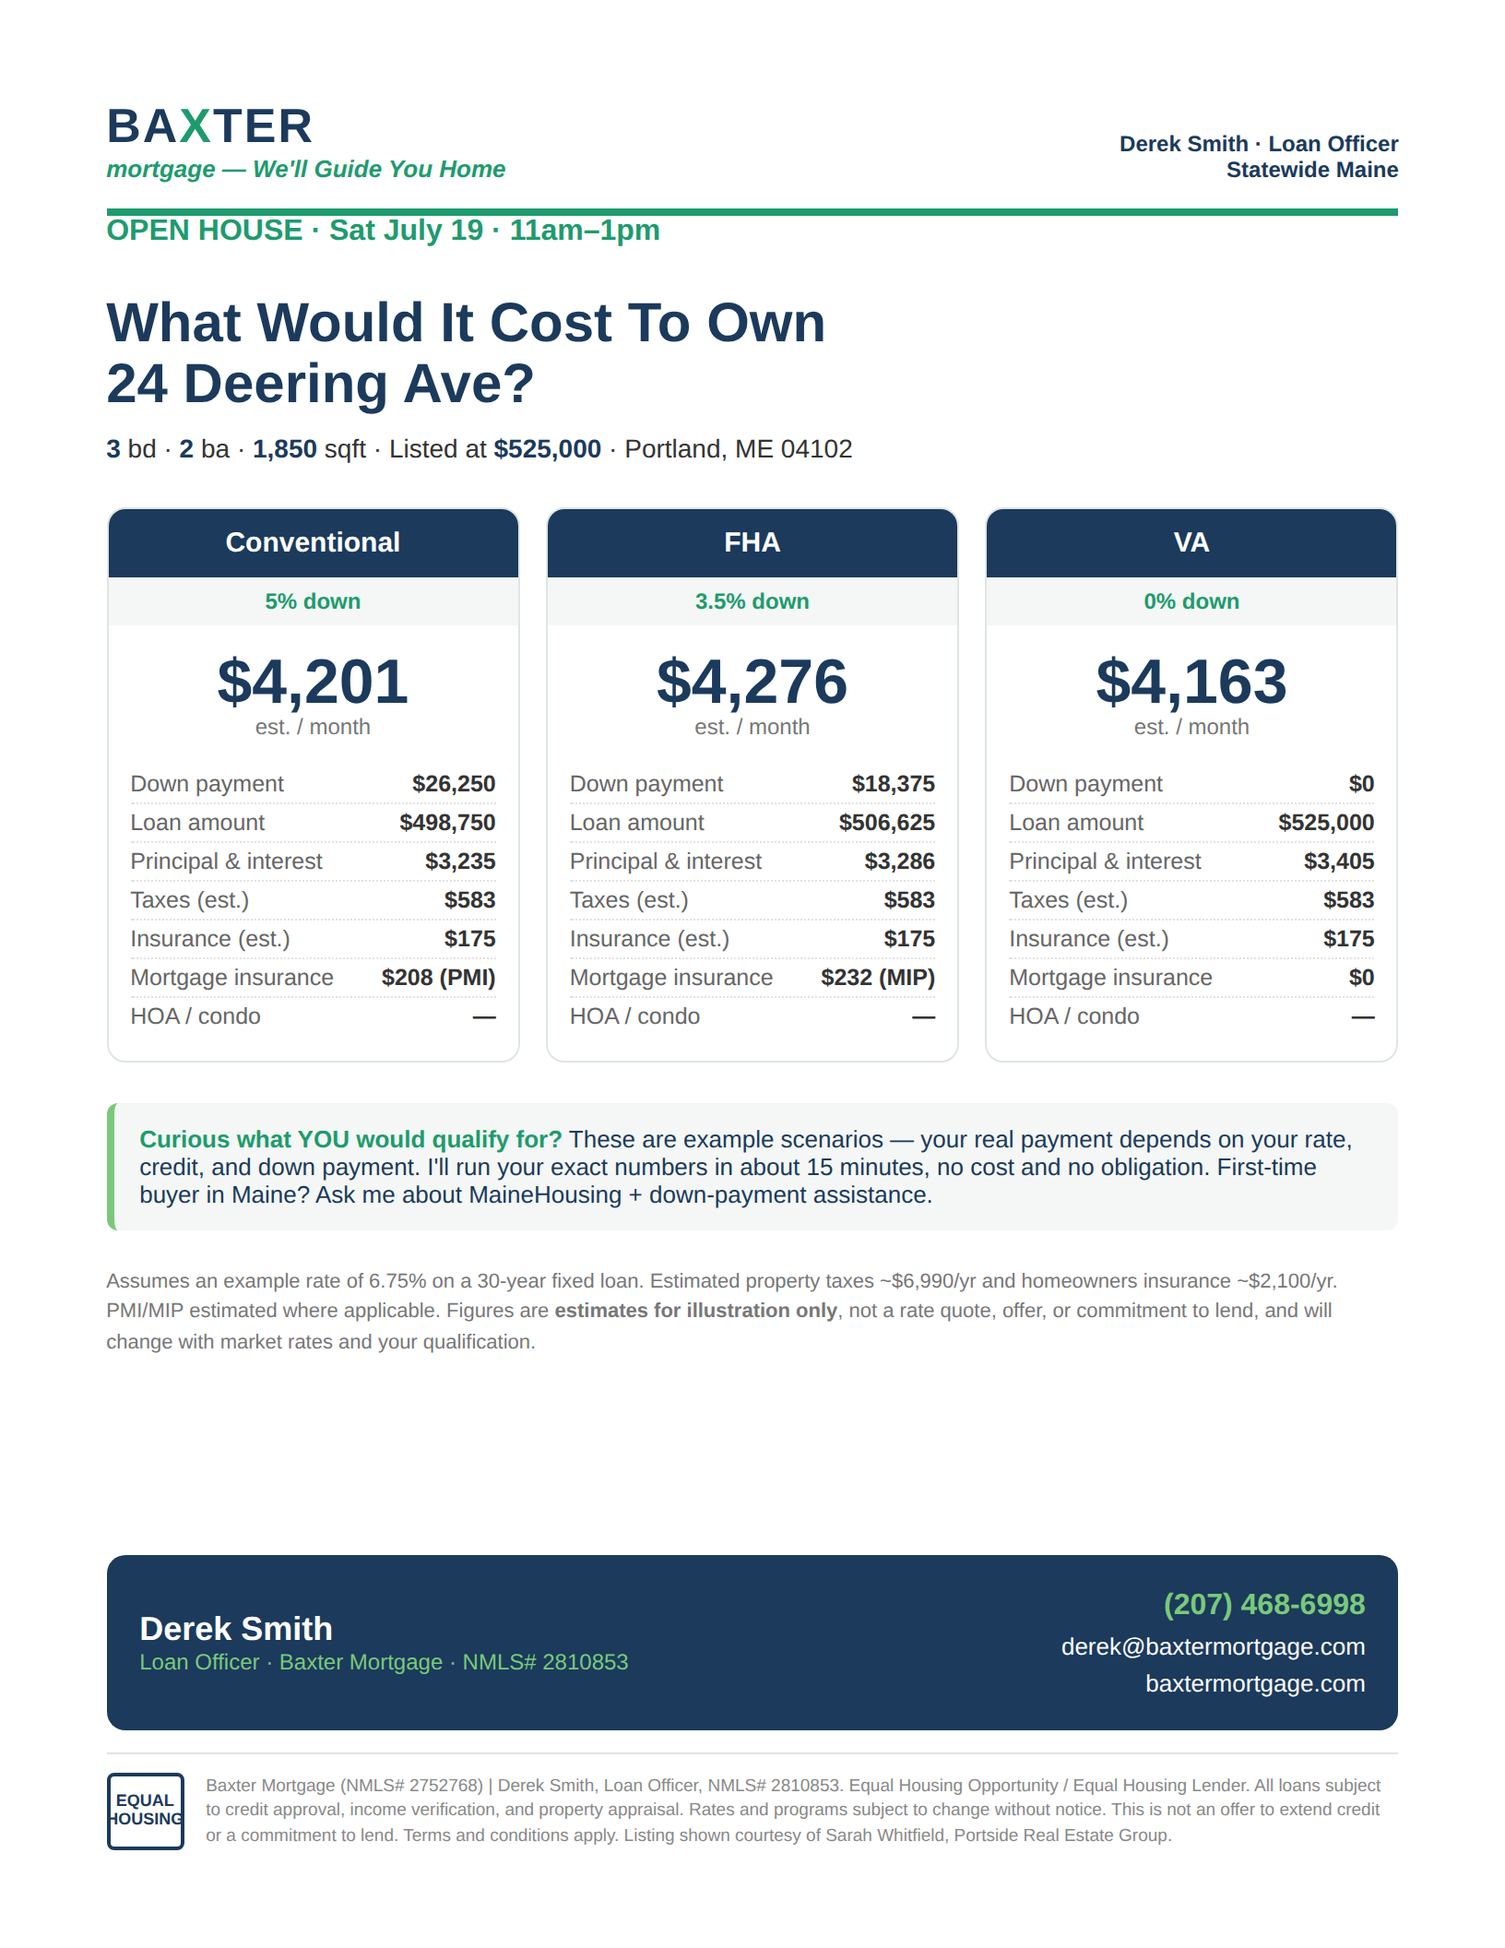
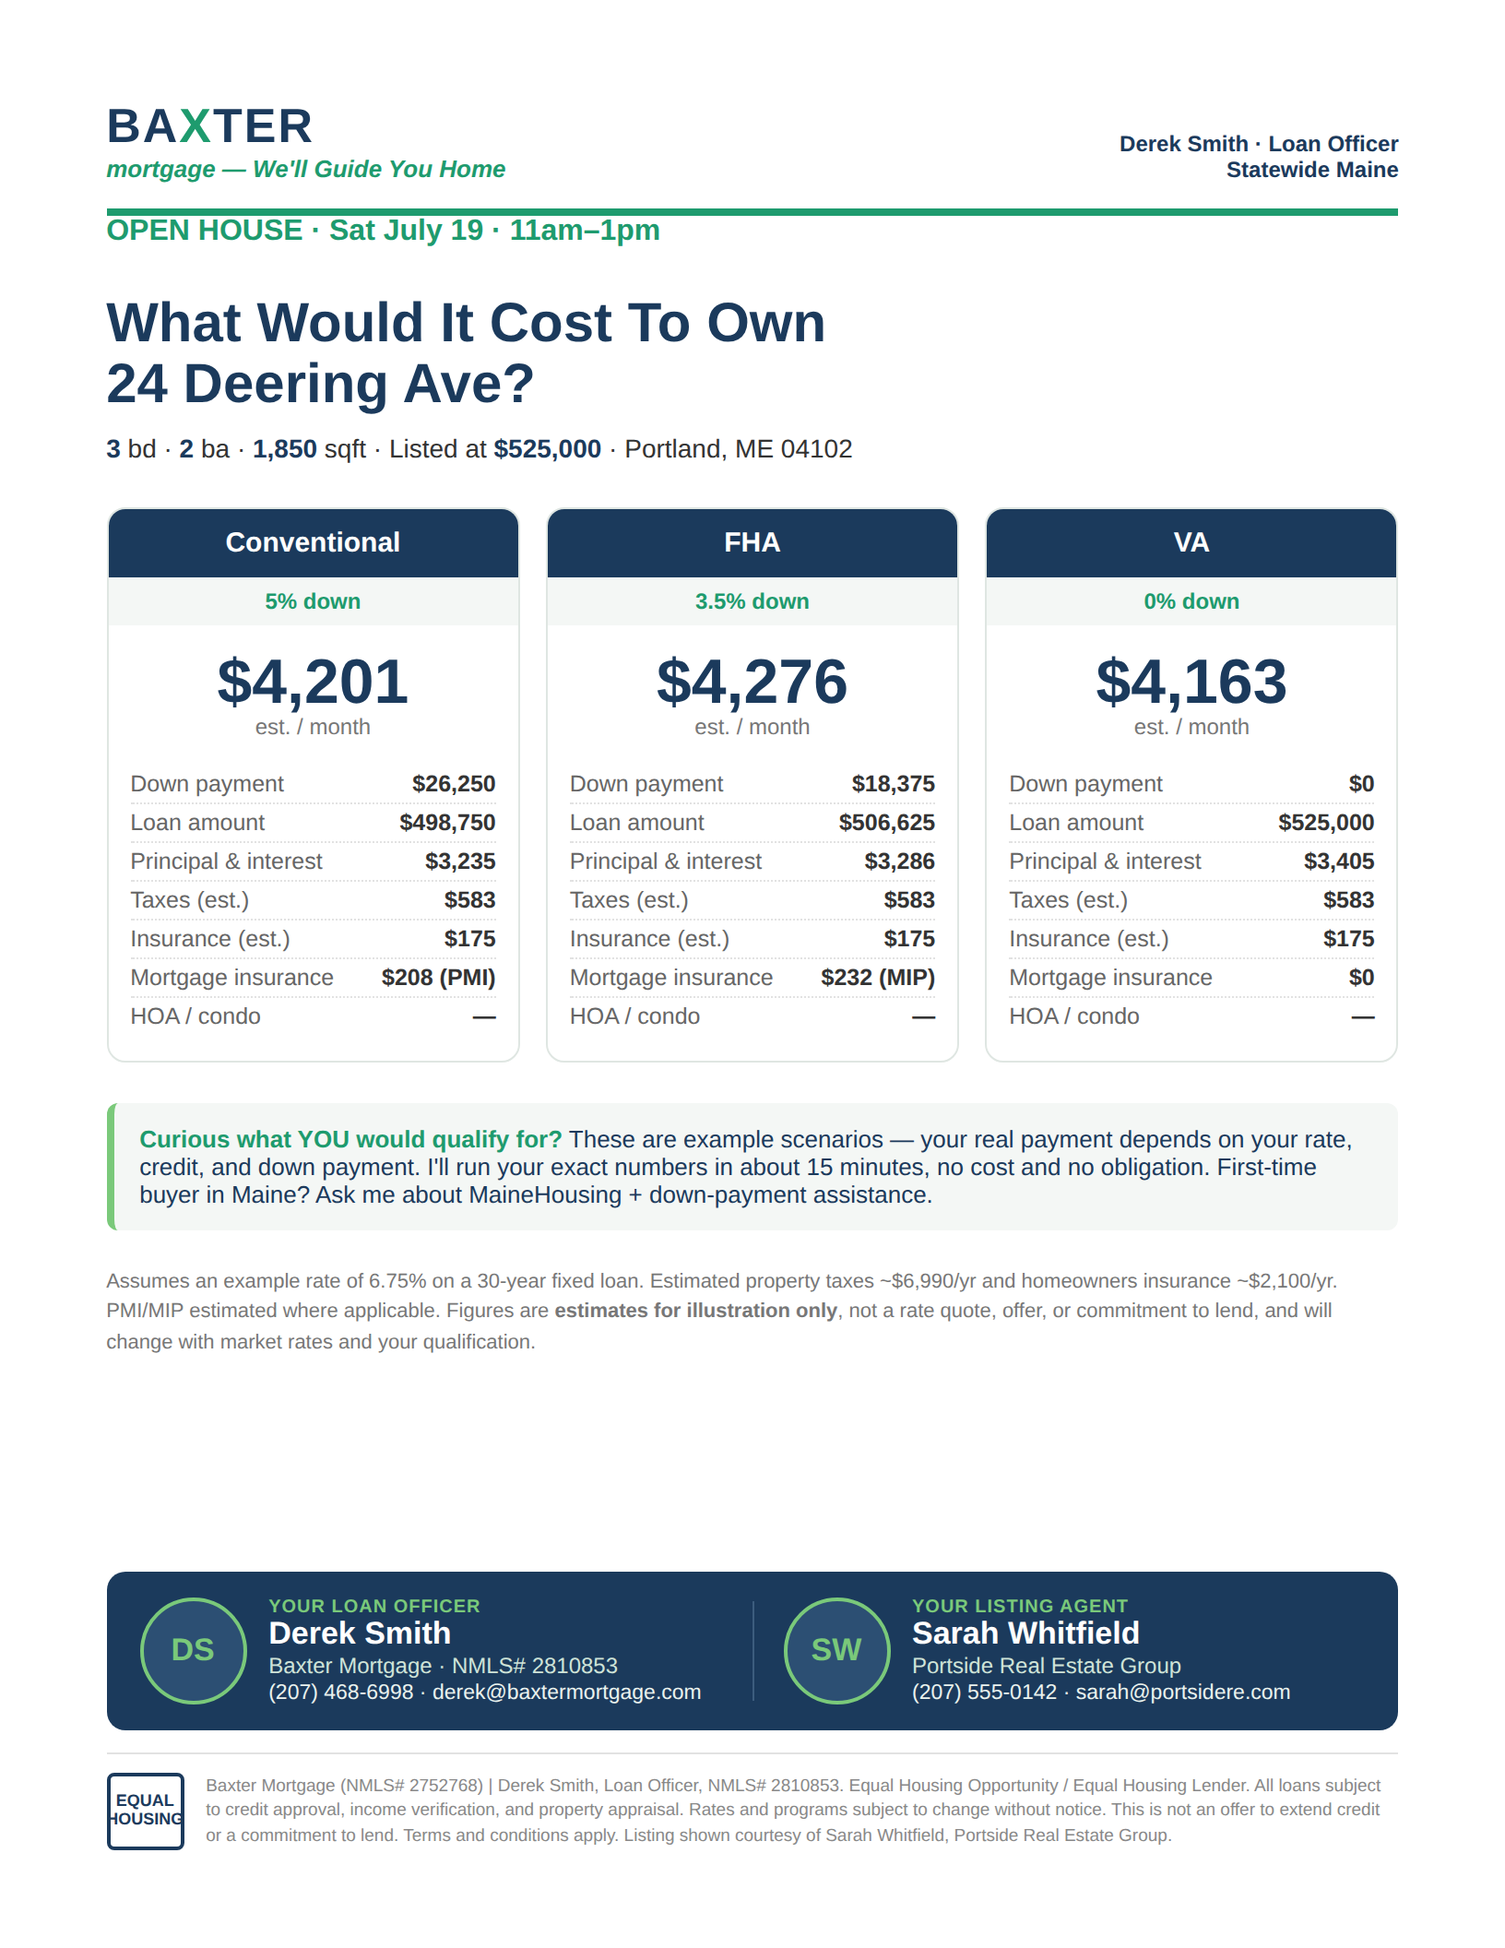
Add co-branded photo/name/info footer for LO + listing agent
Both flyers now end in a co-brand bar: Derek's headshot/name/NMLS/contact on
the left, the listing agent's headshot/name/brokerage/contact on the right.
Photos swap in via {{derek_photo}}/{{agent_photo}} (initials placeholder until
a headshot is provided). Updated workflow SOP + intake checklist to collect
agent phone/email and both headshots, with a RESPA co-branding note. Re-rendered
the Portland example set.

Claude-Session: https://claude.ai/code/session_01NeTePcG8Z61QQmMSpMTEpt

Changed region(s): [[0.0625, 0.7812, 0.9375, 0.875]]

diff --git a/lead-generation/market-snapshot-flyer.html b/lead-generation/market-snapshot-flyer.html
@@ -45,12 +45,23 @@
     padding:14px 16px;border-radius:6px;margin:16px 0;font-size:13.5px;color:var(--navy);line-height:1.5}
   .read h3{color:var(--teal);font-size:13px;text-transform:uppercase;letter-spacing:.5px;margin-bottom:6px}
   .source{font-size:11px;color:#999;margin-top:2px}
-  .cta{margin-top:auto;background:var(--navy);color:#fff;border-radius:10px;
-    padding:16px 18px;display:flex;justify-content:space-between;align-items:center}
-  .cta .who{font-size:18px;font-weight:800}
-  .cta .who small{display:block;font-weight:500;font-size:12px;color:var(--green)}
-  .cta .contact{text-align:right;font-size:13px;line-height:1.5}
-  .cta .contact b{font-size:16px;color:var(--green)}
+  /* Co-branded footer: Derek (lender) + the listing agent, side by side.
+     Swap {{derek_photo}} / {{agent_photo}} with <img src="..."> for real
+     headshots, or leave the initials placeholder. */
+  .cobrand{margin-top:auto;background:var(--navy);color:#fff;border-radius:10px;
+    padding:14px 18px;display:flex;align-items:center;gap:16px}
+  .person{display:flex;align-items:center;gap:12px;flex:1;min-width:0}
+  .avatar{width:58px;height:58px;flex:0 0 58px;border-radius:50%;
+    background:#2c4f73;border:2px solid var(--green);overflow:hidden;
+    display:flex;align-items:center;justify-content:center;
+    font-size:17px;font-weight:800;color:var(--green);text-align:center;line-height:1.05}
+  .avatar img{width:100%;height:100%;object-fit:cover}
+  .pname{font-size:17px;font-weight:800;line-height:1.1}
+  .ptitle{font-size:12px;color:#cfe3d8}
+  .pnmls{font-size:11px;color:var(--green);font-weight:700}
+  .pcontact{font-size:11.5px;color:#eaf2ee;margin-top:2px;overflow-wrap:anywhere}
+  .cbdivider{width:1px;align-self:stretch;background:#3c5d7e;margin:2px 0}
+  .cbtag{font-size:10px;color:var(--green);text-transform:uppercase;letter-spacing:.5px;font-weight:700}
   footer{margin-top:12px;border-top:1.5px solid #e2e2e2;padding-top:10px;
     display:flex;gap:12px;align-items:center}
   .eho{width:42px;height:42px;flex:0 0 42px;border:2px solid var(--navy);
@@ -92,9 +103,26 @@
 
   <div class="source">Market data via realtor.com for ZIP {{zip}}, {{as_of_date}}. Figures are point-in-time and subject to change.</div>
 
-  <div class="cta">
-    <div class="who">Derek Smith<small>Loan Officer · Baxter Mortgage · NMLS# 2810853</small></div>
-    <div class="contact"><b>(207) 468-6998</b><br>derek@baxtermortgage.com<br>baxtermortgage.com</div>
+  <div class="cobrand">
+    <div class="person">
+      <div class="avatar">{{derek_photo}}</div>
+      <div>
+        <div class="cbtag">Your Loan Officer</div>
+        <div class="pname">Derek Smith</div>
+        <div class="ptitle">Baxter Mortgage · NMLS# 2810853</div>
+        <div class="pcontact">(207) 468-6998 · derek@baxtermortgage.com</div>
+      </div>
+    </div>
+    <div class="cbdivider"></div>
+    <div class="person">
+      <div class="avatar">{{agent_photo}}</div>
+      <div>
+        <div class="cbtag">Your Listing Agent</div>
+        <div class="pname">{{listing_agent}}</div>
+        <div class="ptitle">{{brokerage}}</div>
+        <div class="pcontact">{{agent_phone}} · {{agent_email}}</div>
+      </div>
+    </div>
   </div>
 
   <footer>

diff --git a/lead-generation/examples/example-market-snapshot.html b/lead-generation/examples/example-market-snapshot.html
@@ -45,12 +45,23 @@
     padding:14px 16px;border-radius:6px;margin:16px 0;font-size:13.5px;color:var(--navy);line-height:1.5}
   .read h3{color:var(--teal);font-size:13px;text-transform:uppercase;letter-spacing:.5px;margin-bottom:6px}
   .source{font-size:11px;color:#999;margin-top:2px}
-  .cta{margin-top:auto;background:var(--navy);color:#fff;border-radius:10px;
-    padding:16px 18px;display:flex;justify-content:space-between;align-items:center}
-  .cta .who{font-size:18px;font-weight:800}
-  .cta .who small{display:block;font-weight:500;font-size:12px;color:var(--green)}
-  .cta .contact{text-align:right;font-size:13px;line-height:1.5}
-  .cta .contact b{font-size:16px;color:var(--green)}
+  /* Co-branded footer: Derek (lender) + the listing agent, side by side.
+     Swap DS / SW with <img src="..."> for real
+     headshots, or leave the initials placeholder. */
+  .cobrand{margin-top:auto;background:var(--navy);color:#fff;border-radius:10px;
+    padding:14px 18px;display:flex;align-items:center;gap:16px}
+  .person{display:flex;align-items:center;gap:12px;flex:1;min-width:0}
+  .avatar{width:58px;height:58px;flex:0 0 58px;border-radius:50%;
+    background:#2c4f73;border:2px solid var(--green);overflow:hidden;
+    display:flex;align-items:center;justify-content:center;
+    font-size:17px;font-weight:800;color:var(--green);text-align:center;line-height:1.05}
+  .avatar img{width:100%;height:100%;object-fit:cover}
+  .pname{font-size:17px;font-weight:800;line-height:1.1}
+  .ptitle{font-size:12px;color:#cfe3d8}
+  .pnmls{font-size:11px;color:var(--green);font-weight:700}
+  .pcontact{font-size:11.5px;color:#eaf2ee;margin-top:2px;overflow-wrap:anywhere}
+  .cbdivider{width:1px;align-self:stretch;background:#3c5d7e;margin:2px 0}
+  .cbtag{font-size:10px;color:var(--green);text-transform:uppercase;letter-spacing:.5px;font-weight:700}
   footer{margin-top:12px;border-top:1.5px solid #e2e2e2;padding-top:10px;
     display:flex;gap:12px;align-items:center}
   .eho{width:42px;height:42px;flex:0 0 42px;border:2px solid var(--navy);
@@ -92,9 +103,26 @@
 
   <div class="source">Market data via realtor.com for ZIP 04102, as of July 2026. Figures are point-in-time and subject to change.</div>
 
-  <div class="cta">
-    <div class="who">Derek Smith<small>Loan Officer · Baxter Mortgage · NMLS# 2810853</small></div>
-    <div class="contact"><b>(207) 468-6998</b><br>derek@baxtermortgage.com<br>baxtermortgage.com</div>
+  <div class="cobrand">
+    <div class="person">
+      <div class="avatar">DS</div>
+      <div>
+        <div class="cbtag">Your Loan Officer</div>
+        <div class="pname">Derek Smith</div>
+        <div class="ptitle">Baxter Mortgage · NMLS# 2810853</div>
+        <div class="pcontact">(207) 468-6998 · derek@baxtermortgage.com</div>
+      </div>
+    </div>
+    <div class="cbdivider"></div>
+    <div class="person">
+      <div class="avatar">SW</div>
+      <div>
+        <div class="cbtag">Your Listing Agent</div>
+        <div class="pname">Sarah Whitfield</div>
+        <div class="ptitle">Portside Real Estate Group</div>
+        <div class="pcontact">(207) 555-0142 · sarah@portsidere.com</div>
+      </div>
+    </div>
   </div>
 
   <footer>

diff --git a/lead-generation/payment-breakdown-flyer.html b/lead-generation/payment-breakdown-flyer.html
@@ -52,12 +52,23 @@
     padding:12px 14px;border-radius:6px;margin:14px 0;font-size:13px;color:var(--navy)}
   .callout b{color:var(--teal)}
   .assump{font-size:11px;color:#777;margin-top:6px;line-height:1.5}
-  .cta{margin-top:auto;background:var(--navy);color:#fff;border-radius:10px;
-    padding:16px 18px;display:flex;justify-content:space-between;align-items:center}
-  .cta .who{font-size:18px;font-weight:800}
-  .cta .who small{display:block;font-weight:500;font-size:12px;color:var(--green)}
-  .cta .contact{text-align:right;font-size:13px;line-height:1.5}
-  .cta .contact b{font-size:16px;color:var(--green)}
+  /* Co-branded footer: Derek (lender) + the listing agent, side by side.
+     Swap {{derek_photo}} / {{agent_photo}} with <img src="..."> for real
+     headshots, or leave the initials placeholder. */
+  .cobrand{margin-top:auto;background:var(--navy);color:#fff;border-radius:10px;
+    padding:14px 18px;display:flex;align-items:center;gap:16px}
+  .person{display:flex;align-items:center;gap:12px;flex:1;min-width:0}
+  .avatar{width:58px;height:58px;flex:0 0 58px;border-radius:50%;
+    background:#2c4f73;border:2px solid var(--green);overflow:hidden;
+    display:flex;align-items:center;justify-content:center;
+    font-size:17px;font-weight:800;color:var(--green);text-align:center;line-height:1.05}
+  .avatar img{width:100%;height:100%;object-fit:cover}
+  .pname{font-size:17px;font-weight:800;line-height:1.1}
+  .ptitle{font-size:12px;color:#cfe3d8}
+  .pnmls{font-size:11px;color:var(--green);font-weight:700}
+  .pcontact{font-size:11.5px;color:#eaf2ee;margin-top:2px;overflow-wrap:anywhere}
+  .cbdivider{width:1px;align-self:stretch;background:#3c5d7e;margin:2px 0}
+  .cbtag{font-size:10px;color:var(--green);text-transform:uppercase;letter-spacing:.5px;font-weight:700}
   footer{margin-top:12px;border-top:1.5px solid #e2e2e2;padding-top:10px;
     display:flex;gap:12px;align-items:center}
   .eho{width:42px;height:42px;flex:0 0 42px;border:2px solid var(--navy);
@@ -144,9 +155,26 @@
     commitment to lend, and will change with market rates and your qualification.
   </div>
 
-  <div class="cta">
-    <div class="who">Derek Smith<small>Loan Officer · Baxter Mortgage · NMLS# 2810853</small></div>
-    <div class="contact"><b>(207) 468-6998</b><br>derek@baxtermortgage.com<br>baxtermortgage.com</div>
+  <div class="cobrand">
+    <div class="person">
+      <div class="avatar">{{derek_photo}}</div>
+      <div>
+        <div class="cbtag">Your Loan Officer</div>
+        <div class="pname">Derek Smith</div>
+        <div class="ptitle">Baxter Mortgage · NMLS# 2810853</div>
+        <div class="pcontact">(207) 468-6998 · derek@baxtermortgage.com</div>
+      </div>
+    </div>
+    <div class="cbdivider"></div>
+    <div class="person">
+      <div class="avatar">{{agent_photo}}</div>
+      <div>
+        <div class="cbtag">Your Listing Agent</div>
+        <div class="pname">{{listing_agent}}</div>
+        <div class="ptitle">{{brokerage}}</div>
+        <div class="pcontact">{{agent_phone}} · {{agent_email}}</div>
+      </div>
+    </div>
   </div>
 
   <footer>

diff --git a/lead-generation/examples/example-payment-flyer.html b/lead-generation/examples/example-payment-flyer.html
@@ -52,12 +52,23 @@
     padding:12px 14px;border-radius:6px;margin:14px 0;font-size:13px;color:var(--navy)}
   .callout b{color:var(--teal)}
   .assump{font-size:11px;color:#777;margin-top:6px;line-height:1.5}
-  .cta{margin-top:auto;background:var(--navy);color:#fff;border-radius:10px;
-    padding:16px 18px;display:flex;justify-content:space-between;align-items:center}
-  .cta .who{font-size:18px;font-weight:800}
-  .cta .who small{display:block;font-weight:500;font-size:12px;color:var(--green)}
-  .cta .contact{text-align:right;font-size:13px;line-height:1.5}
-  .cta .contact b{font-size:16px;color:var(--green)}
+  /* Co-branded footer: Derek (lender) + the listing agent, side by side.
+     Swap DS / SW with <img src="..."> for real
+     headshots, or leave the initials placeholder. */
+  .cobrand{margin-top:auto;background:var(--navy);color:#fff;border-radius:10px;
+    padding:14px 18px;display:flex;align-items:center;gap:16px}
+  .person{display:flex;align-items:center;gap:12px;flex:1;min-width:0}
+  .avatar{width:58px;height:58px;flex:0 0 58px;border-radius:50%;
+    background:#2c4f73;border:2px solid var(--green);overflow:hidden;
+    display:flex;align-items:center;justify-content:center;
+    font-size:17px;font-weight:800;color:var(--green);text-align:center;line-height:1.05}
+  .avatar img{width:100%;height:100%;object-fit:cover}
+  .pname{font-size:17px;font-weight:800;line-height:1.1}
+  .ptitle{font-size:12px;color:#cfe3d8}
+  .pnmls{font-size:11px;color:var(--green);font-weight:700}
+  .pcontact{font-size:11.5px;color:#eaf2ee;margin-top:2px;overflow-wrap:anywhere}
+  .cbdivider{width:1px;align-self:stretch;background:#3c5d7e;margin:2px 0}
+  .cbtag{font-size:10px;color:var(--green);text-transform:uppercase;letter-spacing:.5px;font-weight:700}
   footer{margin-top:12px;border-top:1.5px solid #e2e2e2;padding-top:10px;
     display:flex;gap:12px;align-items:center}
   .eho{width:42px;height:42px;flex:0 0 42px;border:2px solid var(--navy);
@@ -144,9 +155,26 @@
     commitment to lend, and will change with market rates and your qualification.
   </div>
 
-  <div class="cta">
-    <div class="who">Derek Smith<small>Loan Officer · Baxter Mortgage · NMLS# 2810853</small></div>
-    <div class="contact"><b>(207) 468-6998</b><br>derek@baxtermortgage.com<br>baxtermortgage.com</div>
+  <div class="cobrand">
+    <div class="person">
+      <div class="avatar">DS</div>
+      <div>
+        <div class="cbtag">Your Loan Officer</div>
+        <div class="pname">Derek Smith</div>
+        <div class="ptitle">Baxter Mortgage · NMLS# 2810853</div>
+        <div class="pcontact">(207) 468-6998 · derek@baxtermortgage.com</div>
+      </div>
+    </div>
+    <div class="cbdivider"></div>
+    <div class="person">
+      <div class="avatar">SW</div>
+      <div>
+        <div class="cbtag">Your Listing Agent</div>
+        <div class="pname">Sarah Whitfield</div>
+        <div class="ptitle">Portside Real Estate Group</div>
+        <div class="pcontact">(207) 555-0142 · sarah@portsidere.com</div>
+      </div>
+    </div>
   </div>
 
   <footer>

diff --git a/lead-generation/open-house-flyer-workflow.md b/lead-generation/open-house-flyer-workflow.md
@@ -68,6 +68,23 @@ Open `market-snapshot-flyer.html`, replace every `{{field}}`, and write to
 - Source line: "Market data via realtor.com, <ZIP>, as of <date>."
 - Keep the disclosure footer + Equal Housing logo.
 
+## Step 4b — Fill the co-branded footer (both flyers)
+Both flyers end in a co-brand bar: **Derek (loan officer) on the left, the
+listing agent on the right**, each with a headshot circle + name + info.
+- `{{derek_photo}}`: if `branding/assets/derek-headshot.jpg` exists, insert
+  `<img src="../../branding/assets/derek-headshot.jpg" alt="Derek Smith">`;
+  otherwise leave his initials ("DS") as the placeholder.
+- `{{agent_photo}}`: if Derek gave a headshot link/file, insert an `<img>`
+  pointing at it; otherwise use the agent's initials.
+- `{{listing_agent}}`, `{{brokerage}}`, `{{agent_phone}}`, `{{agent_email}}`:
+  from the intake. If agent phone/email weren't provided, drop that line rather
+  than inventing contact info.
+- **Compliance note:** co-branding a flyer with the listing agent (their
+  listing, their photo, on a piece you produce and give for free) is normal
+  listing-flyer practice. Do **not** let it become a recurring shared-cost or
+  Marketing Services Agreement arrangement without compliance review — see
+  RESPA notes in `compliance/compliance-checklist.md`.
+
 ## Step 5 — Render to shareable files
 The `.html` files are print-ready at 8.5×11. Offer Derek finished output:
 - These HTML files open and print straight from a browser (Cmd/Ctrl+P →

diff --git a/lead-generation/intake-checklist.md b/lead-generation/intake-checklist.md
@@ -13,7 +13,18 @@ show.
 - [ ] **HOA / condo fee** (if any)
 - [ ] **Open house date + time**
 - [ ] **Realtor's name + brokerage** (goes on the flyer as the listing agent)
-- [ ] **A photo** (optional — a link or attached image makes the flyer pop)
+- [ ] **Realtor's phone + email** (shown in the co-branded footer)
+- [ ] **A property photo** (optional — a link or attached image makes the flyer pop)
+
+## 1b. Co-Branding Photos (both flyers show YOU + the agent)
+Every flyer has a co-branded footer bar: your headshot/name/info on the left,
+the listing agent's on the right. To fill it:
+- [ ] **Your headshot** — save it once to `branding/assets/derek-headshot.jpg`
+      and Claude will reuse it on every flyer automatically. (Until it's there,
+      the flyer shows your initials "DS" in a circle.)
+- [ ] **The agent's headshot** — paste a link/attach it, or Claude uses their
+      initials as a placeholder. Agents' headshots are usually on their
+      brokerage profile; you can grab one from there.
 
 ## 2. The Market Data (from realtor.com → search the ZIP → "Housing Market" tab)
 Grab whatever's shown for that ZIP:
